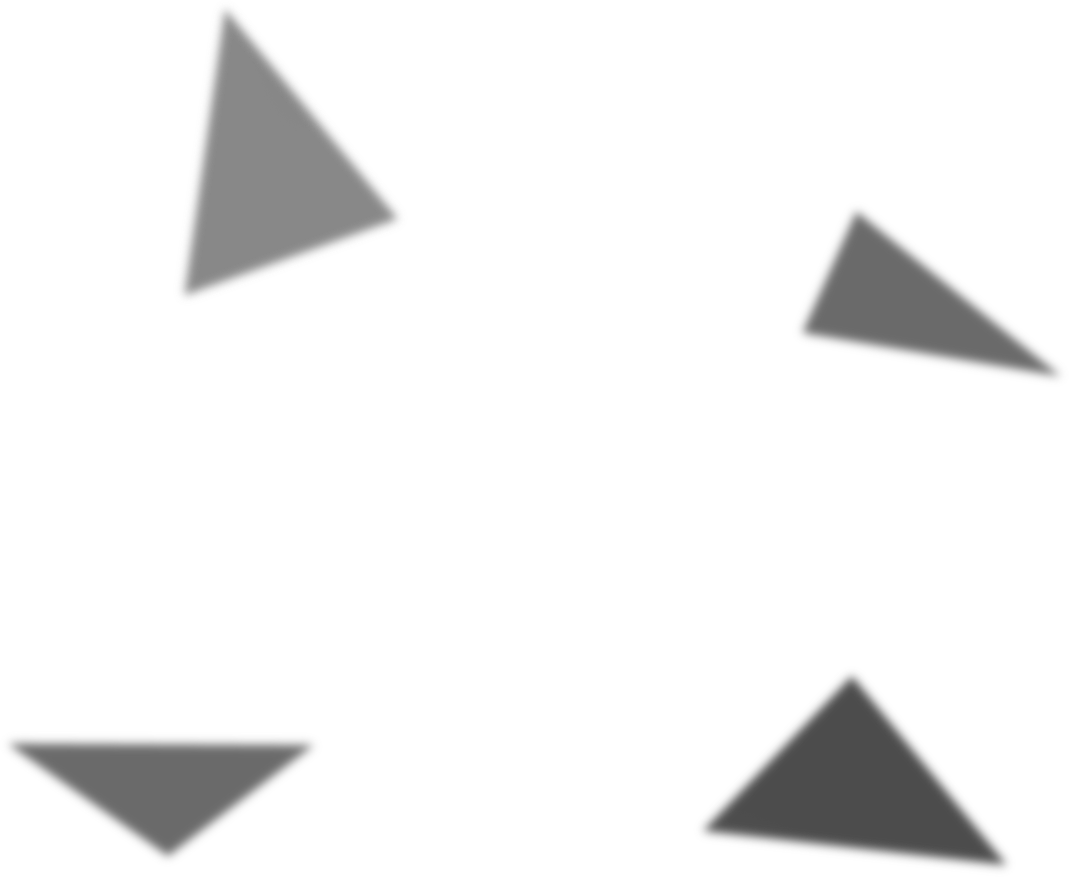
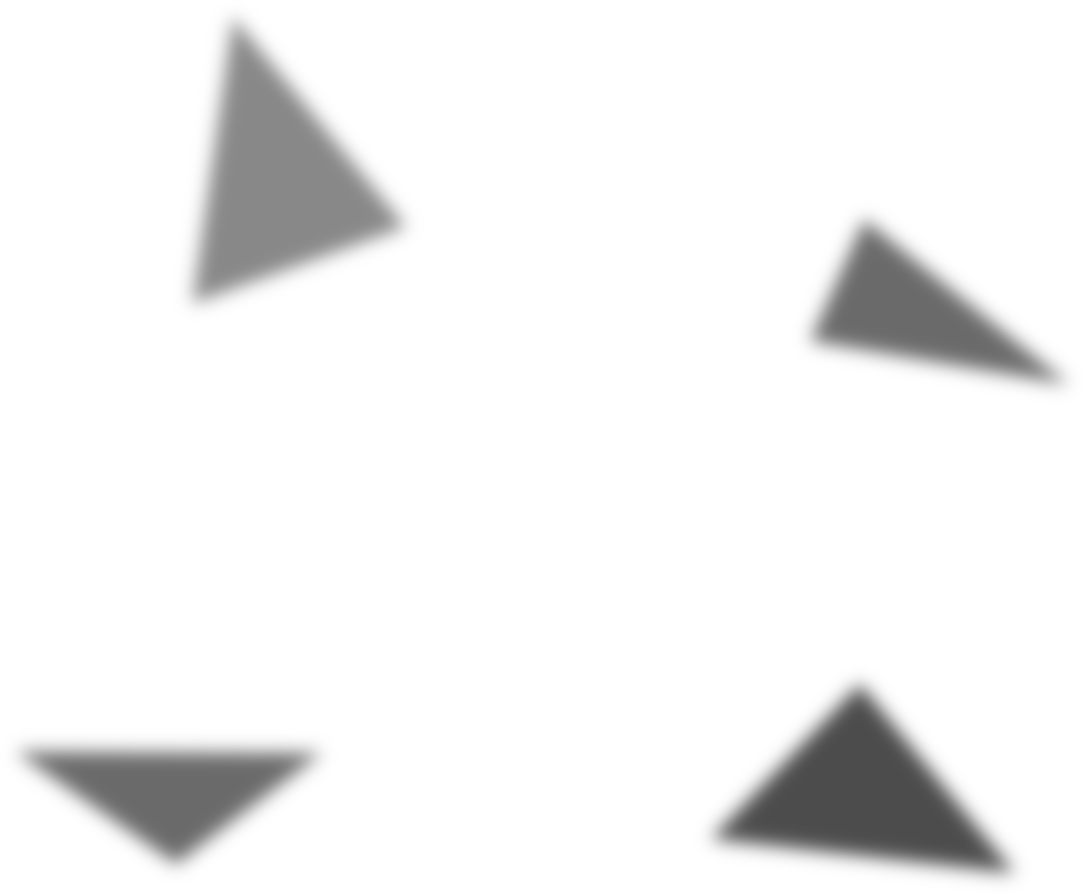
align issues

diff --git a/index.html b/index.html
@@ -16,19 +16,19 @@
 	<div id="wrapper">
 		<div class="container12">
 		<div id='map'>
-			<div id="tr3" class="float" x="0.08" y="0.14" scroll="-0.3">
+			<div id="tr3" class="float" x="0.16" y="0.14" scroll="-0.3">
 				<img class="flt-img" id="top1" src="images/tr3.png"/>
 			</div>
-			<div class="float" x="0.08" y="0.22" scroll="-0.9">
+			<div class="float" x="-0.05" y="0.22" scroll="-0.9">
 				<img id="top2" src="images/tr2.png"/>
 			</div>
-			<div class="float" x="0.27" y="0.36" scroll="-1.2">
+			<div class="float" x="0.35" y="0.36" scroll="-1.2">
 				<img src="images/robin.png"/>
 			</div>
-			<div id="robin" class="float" x="0.09" y="0.66" scroll="-1.9" >
+			<div id="robin" class="float" x="0.15" y="0.66" scroll="-1.9" >
 				<a href="mailto:robin.nicolet@insa-lyon.fr?Subject=Hi !"><strong>Robin</strong><small>.</small><strong>Nicolet</strong><small>@insa-lyon.fr</small></a>
 			</div>
-			<div id="age" class="float" x="0.51" y="0.508" scroll="-1" >
+			<div id="age" class="float" x="0.59" y="0.508" scroll="-1" >
 				<strong>20</strong> years old
 			</div>
 			<div class="float" x="0" y="0.93" scroll="-1.2">
@@ -43,7 +43,7 @@
 			<div class="float" x="0" y="0.77" scroll="-1.2">
 				<img id="robin" src="images/c1.png"/>
 			</div>
-			<div class="float" x="-0.02" y="0.30" scroll="-2.5">
+			<div class="float" x="0.05" y="0.30" scroll="-2.5">
 				<img id="top3" src="images/tr1.png"/>
 			</div>
 		</div>

diff --git a/js/script.js b/js/script.js
@@ -15,14 +15,14 @@ $(document).ready(function(){
 
 	$( window ).scroll( function(){
 		var scroll = $( window ).scrollTop();
-		console.log("main scroll", scroll);
+		//console.log("main scroll", scroll);
 		$( window ).scrollTop(0);
 		$( "#wrapper" ).scrollTop($("#wrapper").scrollTop() + scroll );
 	});
 
 	$( "#wrapper" ).scroll( function() {
 		var scroll = $( "#wrapper" ).scrollTop();
-		console.log("scroll",lastScroll,scroll);
+		//console.log("scroll",lastScroll,scroll);
 		
 		/*if( Math.abs(scroll - lastScroll) > step ){
 			scrollTarget = scroll;
@@ -39,7 +39,7 @@ $(document).ready(function(){
 		//console.log("FLOAT",$("#map.float"));
 
 		var width = $( "#map" ).css("width").match("\\d*")[0];
-		console.log("width",width);
+		//console.log("width",width);
 
 		$(".float").each(function( index ){
 			//console.log("this",this);
